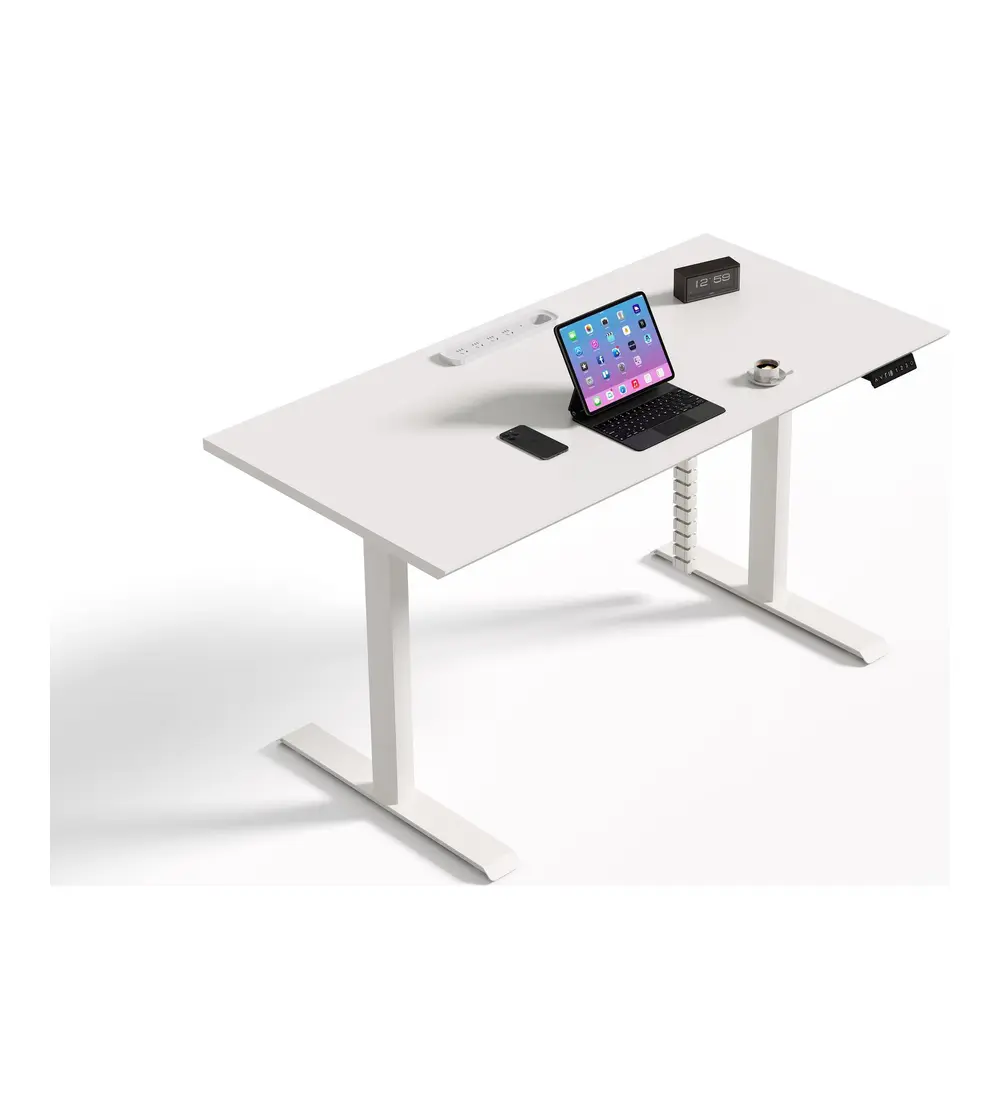
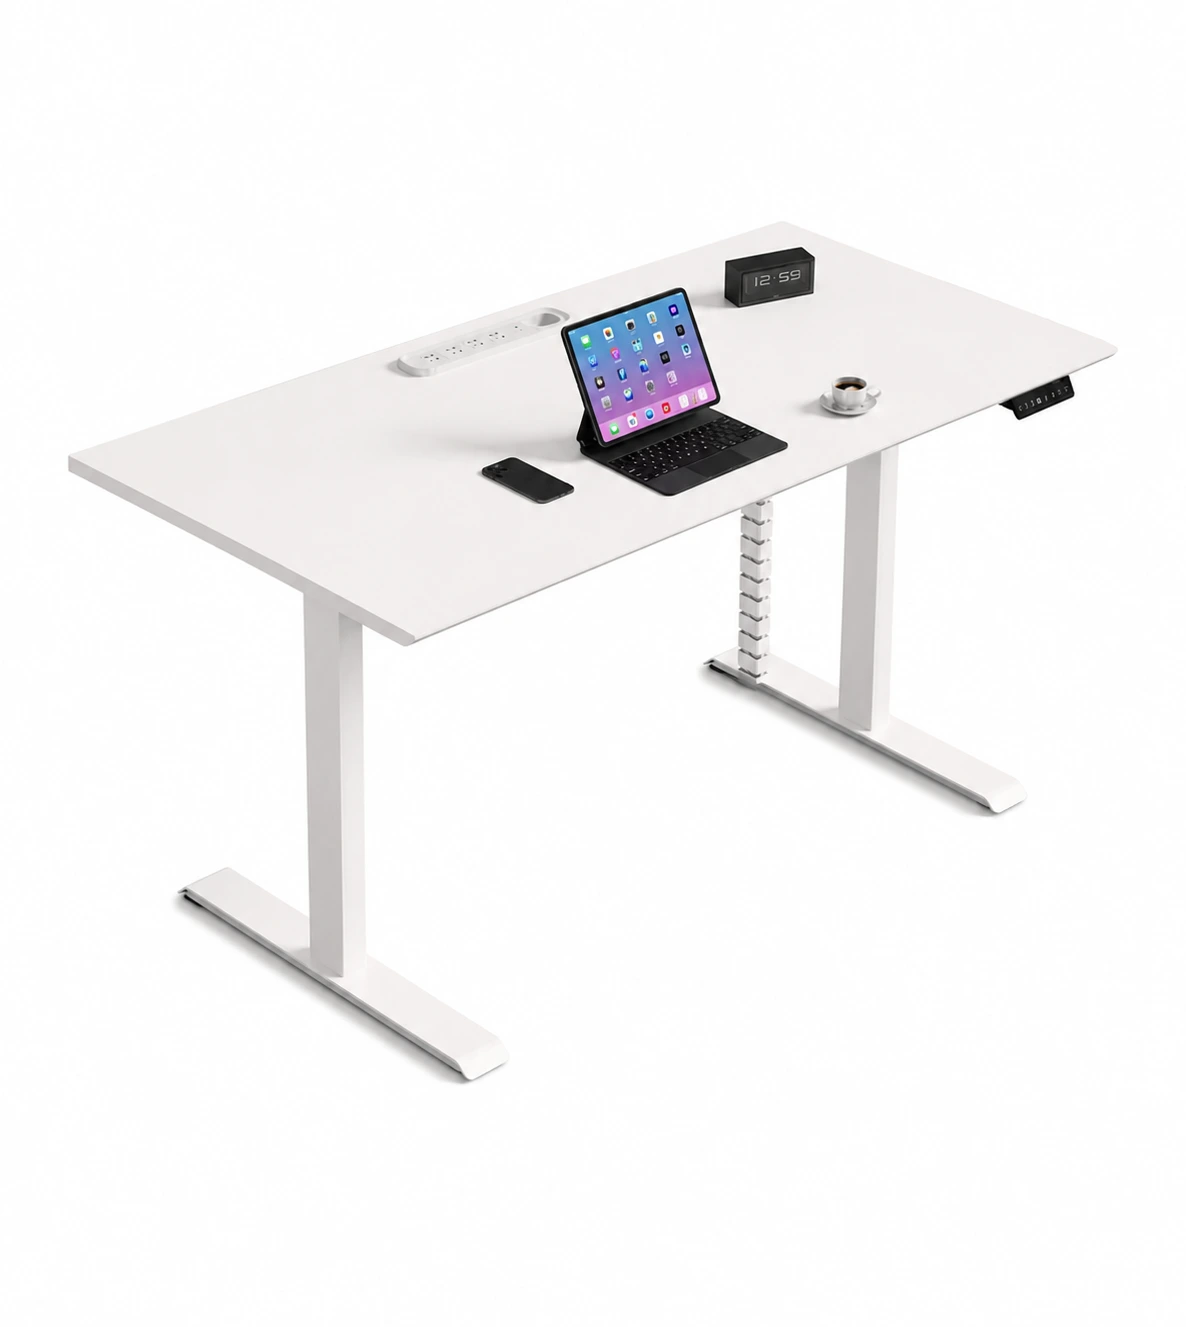
Center selected white and black desk cards on white backgrounds

Changed region(s): [[0.031, 0.1875, 0.961, 0.8125], [0.465, 0.4688, 0.527, 0.5], [0.434, 0.4375, 0.465, 0.4688]]

diff --git a/products/height-adjustable-desk.html b/products/height-adjustable-desk.html
@@ -88,7 +88,7 @@
 <a class="mesh-chair-card mesh-chair-card--link" data-name="GC-P01D-2" data-order="2" href="/products/gc-p01d-2-dual-height-adjustable-bench-desk" aria-label="View GC-P01D-2 height-adjustable desk details"><div class="mesh-chair-card__media"><span class="mesh-chair-card__tag">CUSTOMIZE</span><img src="/assets/images/height-adjustable-desk-collection/gc-p01d-2.webp" width="1000" height="1120" alt="GC-P01D-2 white two-person electric height-adjustable bench desk with privacy screen" loading="lazy"></div><div class="mesh-chair-card__body"><span class="mesh-chair-card__meta">HUANGSI · GC-P01D-2</span><h2>GC-P01D-2 Dual Height-Adjustable Bench Desk</h2><span class="mesh-chair-card__link">View details <span>→</span></span></div></a>
 <a class="mesh-chair-card mesh-chair-card--link" data-name="GC-P01D-2A" data-order="3" href="/products/gc-p01d-2a-four-person-height-adjustable-workstation" aria-label="View GC-P01D-2A height-adjustable desk details"><div class="mesh-chair-card__media"><span class="mesh-chair-card__tag">CUSTOMIZE</span><img src="/assets/images/height-adjustable-desk-collection/gc-p01d-2a.webp" width="1000" height="1120" alt="GC-P01D-2A white four-person electric height-adjustable bench workstation with privacy screens" loading="lazy"></div><div class="mesh-chair-card__body"><span class="mesh-chair-card__meta">HUANGSI · GC-P01D-2A</span><h2>GC-P01D-2A Four-Person Height-Adjustable Bench Desk</h2><span class="mesh-chair-card__link">View details <span>→</span></span></div></a>
 <a class="mesh-chair-card mesh-chair-card--link" data-name="GC-P05D-2" data-order="4" href="/products/gc-p05d-2-black-dual-height-adjustable-bench-desk" aria-label="View GC-P05D-2 height-adjustable desk details"><div class="mesh-chair-card__media"><span class="mesh-chair-card__tag">CUSTOMIZE</span><img src="/assets/images/height-adjustable-desk-collection/gc-p05d-2.webp" width="1000" height="1120" alt="GC-P05D-2 black two-person electric height-adjustable bench desk with privacy screen" loading="lazy"></div><div class="mesh-chair-card__body"><span class="mesh-chair-card__meta">HUANGSI · GC-P05D-2</span><h2>GC-P05D-2 Black Dual Height-Adjustable Bench Desk</h2><span class="mesh-chair-card__link">View details <span>→</span></span></div></a>
-<a class="mesh-chair-card mesh-chair-card--link" data-name="GC-P05D-2A+" data-order="5" href="/products/gc-p05d-2a-plus-black-four-person-height-adjustable-workstation" aria-label="View GC-P05D-2A+ height-adjustable desk details"><div class="mesh-chair-card__media"><span class="mesh-chair-card__tag">CUSTOMIZE</span><img src="/assets/images/height-adjustable-desk-collection/gc-p05d-2a-plus.webp" width="1000" height="1120" alt="GC-P05D-2A+ black four-person electric height-adjustable bench workstation with privacy screens" loading="lazy"></div><div class="mesh-chair-card__body"><span class="mesh-chair-card__meta">HUANGSI · GC-P05D-2A+</span><h2>GC-P05D-2A+ Black Four-Person Height-Adjustable Bench Desk</h2><span class="mesh-chair-card__link">View details <span>→</span></span></div></a>
+<a class="mesh-chair-card mesh-chair-card--link" data-name="GC-P05D-2A+" data-order="5" href="/products/gc-p05d-2a-plus-black-four-person-height-adjustable-workstation" aria-label="View GC-P05D-2A+ height-adjustable desk details"><div class="mesh-chair-card__media"><span class="mesh-chair-card__tag">CUSTOMIZE</span><img src="/assets/images/height-adjustable-desk-collection/gc-p05d-2a-plus.webp" style="padding:5%;box-sizing:border-box;background:#fff" width="1000" height="1120" alt="GC-P05D-2A+ black four-person electric height-adjustable bench workstation with privacy screens" loading="lazy"></div><div class="mesh-chair-card__body"><span class="mesh-chair-card__meta">HUANGSI · GC-P05D-2A+</span><h2>GC-P05D-2A+ Black Four-Person Height-Adjustable Bench Desk</h2><span class="mesh-chair-card__link">View details <span>→</span></span></div></a>
 <a class="mesh-chair-card mesh-chair-card--link" data-name="KJ-SJ-KBBT12-E" data-order="6" href="/products/kj-sj-kbbt12-e-dual-height-adjustable-bench-desk" aria-label="View KJ-SJ-KBBT12-E height-adjustable desk details"><div class="mesh-chair-card__media"><span class="mesh-chair-card__tag">CUSTOMIZE</span><img src="/assets/images/height-adjustable-desk-collection/kj-sj-kbbt12-e.jpg" width="1179" height="860" alt="Two-person back-to-back desk with wood-look worktops, a white frame and a central privacy screen." loading="lazy"></div><div class="mesh-chair-card__body"><span class="mesh-chair-card__meta">HUANGSI · KJ-SJ-KBBT12-E</span><h2>KJ-SJ-KBBT12-E Dual Height-Adjustable Bench Desk</h2><span class="mesh-chair-card__link">View details <span>→</span></span></div></a>
 <a class="mesh-chair-card mesh-chair-card--link" data-name="KJ-SJ-KBBT12-A" data-order="7" href="/products/kj-sj-kbbt12-a-single-height-adjustable-desk" aria-label="View KJ-SJ-KBBT12-A height-adjustable desk details"><div class="mesh-chair-card__media"><span class="mesh-chair-card__tag">CUSTOMIZE</span><img src="/assets/images/height-adjustable-desk-collection/kj-sj-kbbt12-a.jpg" width="990" height="692" alt="Single-user desk with a white worktop, white T-shaped legs and a desktop cable opening." loading="lazy"></div><div class="mesh-chair-card__body"><span class="mesh-chair-card__meta">HUANGSI · KJ-SJ-KBBT12-A</span><h2>KJ-SJ-KBBT12-A Single Height-Adjustable Desk</h2><span class="mesh-chair-card__link">View details <span>→</span></span></div></a></div><p class="mesh-collection-note"><strong>Commercial project supply:</strong> Work-surface sizes, frame finishes, privacy screens, controls, cable management and power accessories can be evaluated by model and order quantity. Contact HUANGSI for specifications, MOQ and quotation.</p></div></section></main>
   <footer class="footer">
